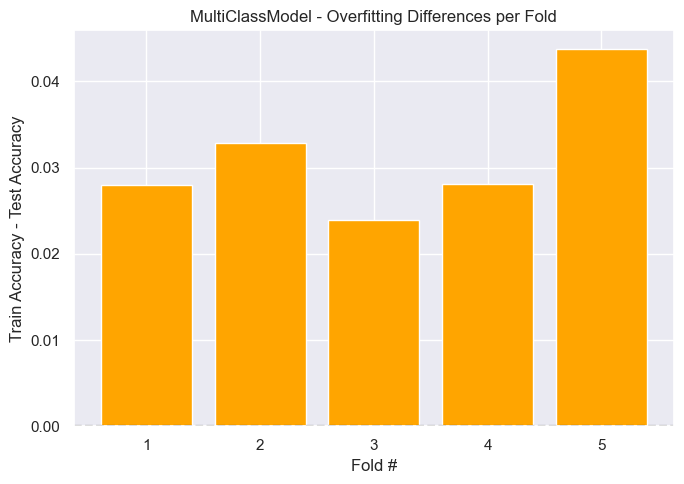
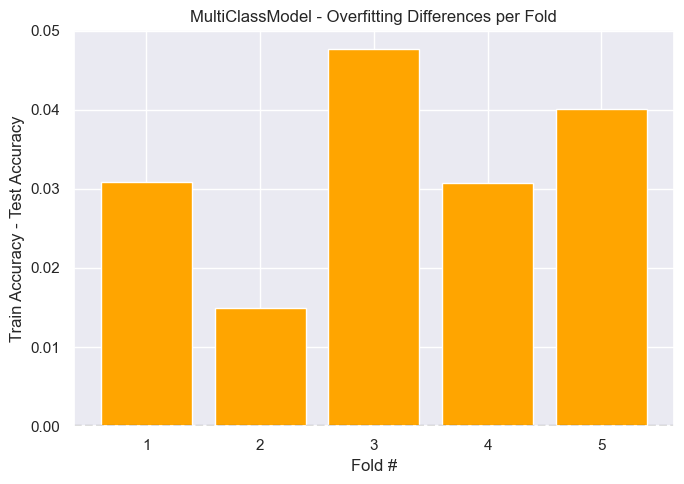
docs: update evaluation values

diff --git a/documentation/latex/sections/evaluation.tex b/documentation/latex/sections/evaluation.tex
@@ -41,7 +41,7 @@ Dove:
 
 \subsection{Risultati di Addestramento}
 
-Il modello \textbf{Naive Bayes} ha ottenuto un'accuratezza complessiva del \textbf{92.87\%} sui dati di addestramento. Questa performance suggerisce una buona capacità del modello di generalizzare il comportamento delle classi, mantenendo un buon livello di prestazioni anche su dati non visti. \\ \\
+Il modello \textbf{Naive Bayes} ha ottenuto un'accuratezza complessiva del \textbf{92.71\%} sui dati di addestramento. Questa performance suggerisce una buona capacità del modello di generalizzare il comportamento delle classi, mantenendo un buon livello di prestazioni anche su dati non visti. \\ \\
 La matrice di confusione, che riporta il numero di previsioni corrette e errate per ciascuna classe, mostra i seguenti risultati:
 
 \begin{figure}[H]
@@ -63,19 +63,19 @@ Le metriche per ogni categoria sono mostrate nella seguente tabella e visualizza
         \hline
         \textbf{Categoria} & \textbf{Precision} & \textbf{Recall} & \textbf{F1-score} \\
         \hline
-        Accesso & 94.01\% & 97.45\% & 95.70\% \\
+        Accesso & 93.95\% & 97.35\% & 95.62\% \\
         \hline
-        Didattica & 93.23\% & 90.90\% & 92.05\% \\
+        Didattica & 93.05\% & 90.67\% & 91.84\% \\
         \hline
-        Profilo & 93.90\% & 96.56\% & 95.21\% \\
+        Profilo & 93.78\% & 96.28\% & 95.01\% \\
         \hline
-        Segreteria & 94.40\% & 89.91\% & 92.10\% \\
+        Segreteria & 94.20\% & 89.82\% & 91.96\% \\
         \hline
-        Tecnico & 88.89\% & 90.44\% & 89.65\% \\
+        Tecnico & 88.70\% & 90.36\% & 89.52\% \\
         \hline
-        media & 93.27\% & 93.28\% & 93.27\% \\
+        Media & 92.74\% & 92.90\% & 92.79\% \\
         \hline
-        media pesata & 93.16\% & 93.16\% & 93.16\% \\
+        Media pesata & 92.73\% & 92.71\% & 92.70\% \\
         \hline
     \end{tabular}
     \caption{Confronto tra precision, recall e F1-score per il training di Naive Bayes}
@@ -89,13 +89,13 @@ Le metriche per ogni categoria sono mostrate nella seguente tabella e visualizza
     \label{fig:metrics_train_naive_bayes}
 \end{figure}
 
-Il modello mostra buone performance complessive, ma nelle categorie \textbf{Segreteria} e \textbf{Tecnico} ci sono margini di miglioramento. \textbf{Segreteria} ha alta precisione ma basso recall, mentre \textbf{Tecnico} ha alta capacità di identificare le istanze (buon recall), ma con una precisione più bassa.
+Il modello mostra buone performance complessive, ma nelle categorie \textbf{Segreteria} e \textbf{Tecnico} ci sono margini di miglioramento. \textbf{Segreteria} ha una buona precisione, ma un recall relativamente basso, mentre \textbf{Tecnico} ha un buon recall, ma una precisione più bassa.
 
 \newpage
 
 \subsection{Risultati di Test}
 
-Per quanto riguarda i \textbf{dati di test}, il modello ha ottenuto un'accuratezza del \textbf{89.74\%}, una leggera riduzione rispetto ai dati di addestramento, ma comunque una performance robusta. \\ \\
+Per quanto riguarda i \textbf{dati di test}, il modello ha ottenuto un'accuratezza del \textbf{89.42\%}, una leggera riduzione rispetto ai dati di addestramento, ma comunque una performance robusta. \\ \\
 La matrice di confusione sui dati di test è la seguente:
 
 \begin{figure}[H]
@@ -113,19 +113,19 @@ Mentre le metriche per ogni categoria sono mostrate nella seguente tabella e vis
         \hline
         \textbf{Categoria} & \textbf{Precision} & \textbf{Recall} & \textbf{F1-score} \\
         \hline
-        Accesso & 91.29\% & 96.01\% & 93.56\% \\
+        Accesso & 91.95\% & 95.40\% & 93.62\% \\
         \hline
-        Didattica & 89.92\% & 87.10\% & 88.47\% \\
+        Didattica & 89.53\% & 86.53\% & 87.99\% \\
         \hline
-        Profilo & 91.59\% & 94.20\% & 92.87\% \\
+        Profilo & 91.42\% & 93.77\% & 92.56\% \\
         \hline
-        Segreteria & 91.33\% & 85.78\% & 88.46\% \\
+        Segreteria & 91.14\% & 85.62\% & 88.29\% \\
         \hline
-        Tecnico & 84.76\% & 86.88\% & 85.80\% \\
+        Tecnico & 83.46\% & 87.05\% & 85.19\% \\
         \hline
-        media & 89.78\% & 89.79\% & 89.71\% \\
+        Media & 89.50\% & 89.67\% & 89.53\% \\
         \hline
-        media pesata & 89.79\% & 89.74\% & 89.71\% \\
+        Media pesata & 89.50\% & 89.43\% & 89.41\% \\
         \hline
     \end{tabular}
     \caption{Confronto tra precision, recall e F1-score per il testing di Naive Bayes}
@@ -141,7 +141,7 @@ Mentre le metriche per ogni categoria sono mostrate nella seguente tabella e vis
 
 \subsection{Overfitting}
 
-Per valutare il rischio di \textbf{overfitting}, sono stati analizzati i valori di accuratezza nei diversi fold della validazione incrociata a k-fold. Le differenze tra l'accuratezza dei dati variano tra \textbf{0.02} e \textbf{0.04}, con una media di \textbf{0.0313}. Sebbene vi sia una leggera tendenza all'overfitting, i valori rientrano in un intervallo accettabile, confermando la buona generalizzazione del modello.
+Per valutare il rischio di \textbf{overfitting}, sono stati analizzati i valori di accuratezza nei diversi fold della validazione incrociata a k-fold. Le differenze tra l'accuratezza dei dati variano tra \textbf{0.01} e \textbf{0.05}, con una media di \textbf{0.0328}. Sebbene vi sia una leggera tendenza all'overfitting, i valori rientrano in un intervallo accettabile, confermando la buona generalizzazione del modello.
 
 \begin{figure}[H]
     \centering
@@ -156,7 +156,7 @@ Per valutare il rischio di \textbf{overfitting}, sono stati analizzati i valori 
 
 \subsection{Risultati di Addestramento}
 
-Il modello \textbf{Support Vector Machine (SVM)} ha ottenuto un'accuratezza complessiva del \textbf{93.17\%} sui dati di addestramento. Questo risultato suggerisce una forte capacità del modello nel generalizzare il comportamento delle classi, mantenendo alte prestazioni anche su dati non visti. \\ \\
+Il modello \textbf{Support Vector Machine (SVM)} ha ottenuto un'accuratezza complessiva del \textbf{93.10\%} sui dati di addestramento. Questo risultato suggerisce una forte capacità del modello nel generalizzare il comportamento delle classi, mantenendo alte prestazioni anche su dati non visti. \\ \\
 La matrice di confusione, che riporta il numero di previsioni corrette ed errate per ciascuna classe, è la seguente:
 
 \begin{figure}[H]
@@ -178,19 +178,19 @@ Le metriche per ogni categoria sono mostrate nella seguente tabella e visualizza
         \hline
         \textbf{Categoria} & \textbf{Precision} & \textbf{Recall} & \textbf{F1-score} \\
         \hline
-        Accesso & 95.08\% & 96.12\% & 95.59\% \\
+        Accesso & 94.94\% & 96.16\% & 95.55\% \\
         \hline
-        Didattica & 91.77\% & 92.02\% & 91.89\% \\
+        Didattica & 91.67\% & 92.07\% & 91.87\% \\
         \hline
-        Profilo & 96.80\% & 96.65\% & 96.73\% \\
+        Profilo & 97.02\% & 96.16\% & 96.59\% \\
         \hline
-        Segreteria & 91.92\% & 92.04\% & 91.98\% \\
+        Segreteria & 91.71\% & 92.08\% & 91.89\% \\
         \hline
-        Tecnico & 90.82\% & 89.60\% & 90.20\% \\
+        Tecnico & 90.77\% & 89.61\% & 90.18\% \\
         \hline
-        media & 93.28\% & 93.29\% & 93.28\% \\
+        Media & 93.22\% & 93.22\% & 93.22\% \\
         \hline
-        media pesata & 93.16\% & 93.17\% & 93.16\% \\
+        Media pesata & 93.10\% & 93.10\% & 93.10\% \\
         \hline
     \end{tabular}
     \caption{Confronto tra precision, recall e F1-score per il training di SVM}
@@ -204,13 +204,13 @@ Le metriche per ogni categoria sono mostrate nella seguente tabella e visualizza
     \label{fig:metrics_train_svm}
 \end{figure}
 
-Il modello ha buone performance complessive, ma nelle categorie \textbf{Tecnico} e \textbf{Didattica} ci sono margini di miglioramento. \textbf{Tecnico} mostra un buon richiamo, ma una precisione relativamente bassa, mentre \textbf{Didattica} ha una buona precisione, ma un richiamo leggermente inferiore.
+Il modello ha buone performance complessive, ma nelle categorie \textbf{Tecnico} e \textbf{Didattica} ci sono margini di miglioramento. \textbf{Tecnico} mostra una precisione relativamente bassa e un richiamo anch'esso non eccellente, mentre \textbf{Didattica} ha una buona precisione, ma un richiamo leggermente inferiore rispetto ad altre categorie.
 
 \newpage
 
 \subsection{Risultati di Test}
 
-Per quanto riguarda i \textbf{dati di test}, il modello ha ottenuto un'accuratezza del \textbf{90.79\%}, con una leggera riduzione rispetto ai dati di addestramento, ma comunque una performance robusta. \\ \\
+Per quanto riguarda i \textbf{dati di test}, il modello ha ottenuto un'accuratezza del \textbf{90.82\%}, con una leggera riduzione rispetto ai dati di addestramento, ma comunque una performance robusta. \\ \\
 La matrice di confusione sui dati di test è la seguente:
 
 \begin{figure}[H]
@@ -228,19 +228,19 @@ Mentre le metriche per ogni categoria sono mostrate nella seguente tabella e vis
         \hline
         \textbf{Categoria} & \textbf{Precision} & \textbf{Recall} & \textbf{F1-score} \\
         \hline
-        Accesso & 93.66\% & 95.14\% & 94.37\% \\
+        Accesso & 93.55\% & 94.85\% & 94.18\% \\
         \hline
-        Didattica & 88.72\% & 89.42\% & 89.06\% \\
+        Didattica & 88.66\% & 89.23\% & 88.94\% \\
         \hline
-        Profilo & 95.89\% & 94.45\% & 95.16\% \\
+        Profilo & 96.02\% & 94.61\% & 95.30\% \\
         \hline
-        Segreteria & 88.68\% & 88.82\% & 88.74\% \\
+        Segreteria & 89.67\% & 88.81\% & 89.23\% \\
         \hline
-        Tecnico & 87.94\% & 86.96\% & 87.43\% \\
+        Tecnico & 87.08\% & 87.37\% & 87.21\% \\
         \hline
-        media & 90.98\% & 90.96\% & 90.95\% \\
+        Media & 90.99\% & 90.97\% & 90.97\% \\
         \hline
-        media pesata & 90.81\% & 90.79\% & 90.79\% \\
+        Media pesata & 90.86\% & 90.82\% & 90.82\% \\
         \hline
     \end{tabular}
     \caption{Confronto tra precision, recall e F1-score per il testing di SVM}
@@ -256,7 +256,7 @@ Mentre le metriche per ogni categoria sono mostrate nella seguente tabella e vis
 
 \subsection{Overfitting}
 
-Per valutare il rischio di \textbf{overfitting}, sono stati analizzati i valori di accuratezza nei diversi fold della validazione incrociata a k-fold. Le differenze tra l'accuratezza dei dati variano tra \textbf{0.02} e \textbf{0.04}, con una media di \textbf{0.0237}. Sebbene ci sia una leggera tendenza all'overfitting, i valori rientrano in un intervallo accettabile, confermando la buona generalizzazione del modello.
+Per valutare il rischio di \textbf{overfitting}, sono stati analizzati i valori di accuratezza nei diversi fold della validazione incrociata a k-fold. Le differenze tra l'accuratezza dei dati variano tra \textbf{0.01} e \textbf{0.04}, con una media di \textbf{0.0228}. Sebbene ci sia una leggera tendenza all'overfitting, i valori rientrano in un intervallo accettabile, confermando la buona generalizzazione del modello.
 
 \begin{figure}[H]
     \centering
@@ -271,7 +271,7 @@ Per valutare il rischio di \textbf{overfitting}, sono stati analizzati i valori 
 
 \subsection{Prestazioni Complessive}
 
-Entrambi i modelli, \textbf{Naive Bayes} e \textbf{SVM}, mostrano prestazioni molto simili. Durante il training, \textbf{Naive Bayes} raggiunge un'accuratezza del 92.87\%, mentre \textbf{SVM} è leggermente migliore con un'accuratezza del 93.17\%. Quando testati sui dati di test, entrambi i modelli registrano una piccola diminuzione delle performance, con \textbf{Naive Bayes} che scende al 89.74\% e \textbf{SVM} che ottiene il 90.79\%. Le metriche di precisione, recall e f1-score sono anch'esse molto simili per entrambi i modelli, suggerendo che entrambi sono abbastanza equilibrati nel bilanciare la capacità di classificare correttamente le istanze e nel ridurre al minimo gli errori.
+Entrambi i modelli, \textbf{Naive Bayes} e \textbf{SVM}, mostrano prestazioni molto simili. Durante il training, \textbf{Naive Bayes} raggiunge un'accuratezza del 92.71\%, mentre \textbf{SVM} è leggermente migliore con un'accuratezza del 93.10\%. Quando testati sui dati di test, entrambi i modelli registrano una piccola diminuzione delle performance, con \textbf{Naive Bayes} che scende al 89.43\% e \textbf{SVM} che ottiene il 90.82\%. Le metriche di precisione, recall e f1-score sono anch'esse molto simili per entrambi i modelli, suggerendo che entrambi sono abbastanza equilibrati nel bilanciare la capacità di classificare correttamente le istanze e nel ridurre al minimo gli errori.
 
 \begin{table}[H]
     \centering
@@ -279,13 +279,13 @@ Entrambi i modelli, \textbf{Naive Bayes} e \textbf{SVM}, mostrano prestazioni mo
         \hline
         \textbf{Modello} & \textbf{Set} & \textbf{Accuracy} & \textbf{Precision} & \textbf{Recall} & \textbf{F1-score} \\
         \hline
-        Naive Bayes & Training & 92.87\% & 93.29\% & 92.91\% & 92.88\% \\
+        Naive Bayes & Training & 92.71\% & 92.74\% & 92.71\% & 92.72\% \\
         \hline
-        Naive Bayes & Test & 89.74\% & 89.91\% & 89.80\% & 89.79\% \\
+        Naive Bayes & Test & 89.43\% & 89.50\% & 89.43\% & 89.44\% \\
         \hline
-        SVM & Training & 93.17\% & 93.16\% & 93.21\% & 93.16\% \\
+        SVM & Training & 93.10\% & 93.22\% & 93.10\% & 93.12\% \\
         \hline
-        SVM & Test & 90.79\% & 90.82\% & 90.85\% & 90.79\% \\
+        SVM & Test & 90.82\% & 90.86\% & 90.82\% & 90.82\% \\
         \hline
     \end{tabular}
     \caption{Confronto tra i modelli in termini di accuracy, precision, recall e F1-score}
@@ -295,7 +295,7 @@ Entrambi i modelli, \textbf{Naive Bayes} e \textbf{SVM}, mostrano prestazioni mo
 
 \subsection{Overfitting}
 
-Sia il modello \textbf{Naive Bayes} che il modello \textbf{SVM} mostrano una lieve presenza di \textbf{overfitting}, con differenze tra le performance sui dati che variano tra \textbf{0.02} e \textbf{0.04}. \\ \\
+Sia il modello \textbf{Naive Bayes} che il modello \textbf{SVM} mostrano una lieve presenza di \textbf{overfitting}, con differenze tra le performance sui dati che variano tra \textbf{0.02} e \textbf{0.05}. \\ \\
 Per meglio visualizzare e comprendere l'andamento dell'overfitting, è stato calcolato il valore della differenza per ogni fold del k-fold cross-validation. La seguente immagine mostra queste differenze per ciascun fold, confrontando l'overfitting tra i modelli Naive Bayes e SVM.
 
 \begin{figure}[H]
@@ -307,7 +307,7 @@ Per meglio visualizzare e comprendere l'andamento dell'overfitting, è stato cal
 
 \section{Conclusioni}
 
-Entrambi i modelli, Naive Bayes e Support Vector Machine (SVM), hanno mostrato prestazioni eccellenti nel compito di \textbf{classificazione}, evidenziando differenze minime nelle metriche di valutazione. Sebbene il modello SVM ottenga risultati migliori leggermente in termini di accuratezza sui dati di test, con un'accuratezza del \textbf{90.79\%} rispetto al \textbf{89.74\%} di Naive Bayes, la differenza tra i due modelli risulta essere piuttosto contenuta, con un margine di pochi punti percentuali. Questo indica che entrambi i modelli sono ben calibrati per il compito e sono capaci di generalizzare efficacemente. \newline
+Entrambi i modelli, Naive Bayes e Support Vector Machine (SVM), hanno mostrato prestazioni eccellenti nel compito di \textbf{classificazione}, evidenziando differenze minime nelle metriche di valutazione. Sebbene il modello SVM ottenga risultati migliori leggermente in termini di accuratezza sui dati di test, con un'accuratezza del \textbf{90.82\%} rispetto al \textbf{89.43\%} di Naive Bayes, la differenza tra i due modelli risulta essere piuttosto contenuta, con un margine di pochi punti percentuali. Questo indica che entrambi i modelli sono ben calibrati per il compito e sono capaci di generalizzare efficacemente. \newline
 \textbf{Naive Bayes}, grazie alla sua semplicità e velocità di esecuzione, potrebbe essere la scelta preferibile in scenari in cui le risorse computazionali sono limitate o in situazioni che richiedono modelli facilmente interpretabili. Inoltre, la capacità di Naive Bayes di gestire efficacemente grandi volumi di dati con risorse relativamente basse lo rende adatto per applicazioni in tempo reale o su dispositivi con risorse limitate.
 
 D'altra parte, il modello \textbf{SVM} si distingue per una maggiore precisione in alcuni casi, come evidenziato dalle metriche di precisione e recall, ed è generalmente considerato una scelta solida quando è necessaria una maggiore accuratezza, specialmente in contesti dove la performance sui dati di test è cruciale e si dispone di risorse computazionali adeguate. SVM è inoltre più adatto per situazioni che richiedono una maggiore capacità di generalizzazione rispetto a modelli con assunzioni più forti, come Naive Bayes.
